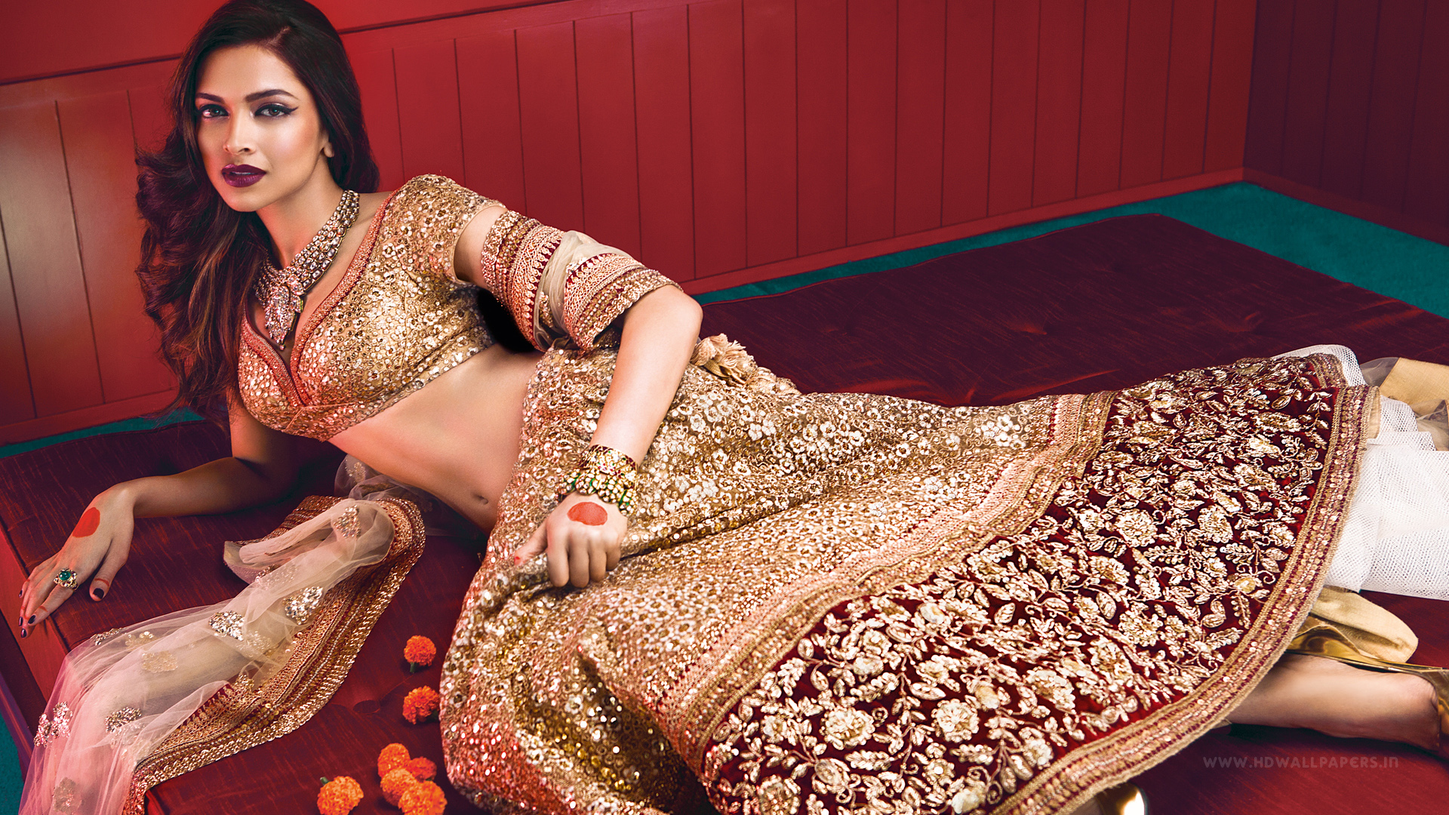
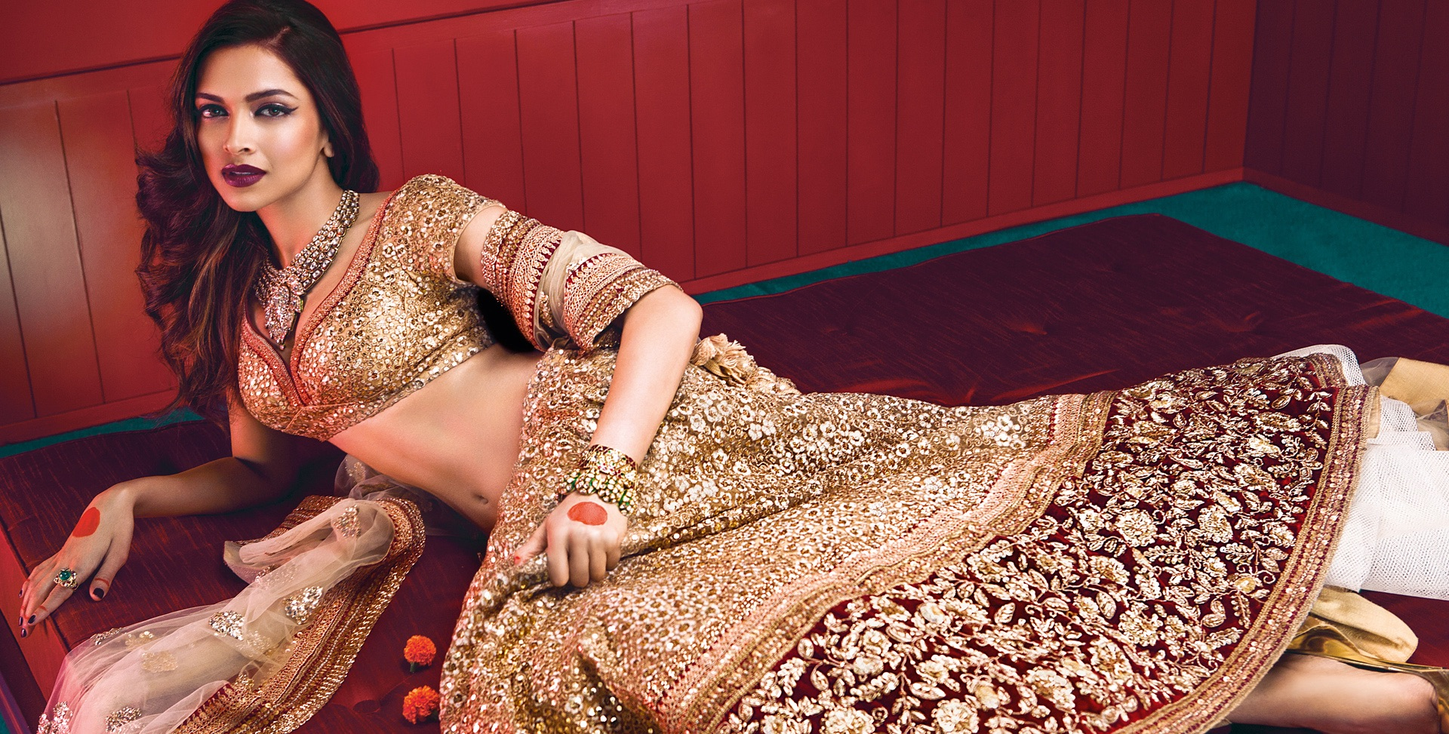
remove lower heading, trim header image

diff --git a/public/css/agency.min.css b/public/css/agency.min.css
@@ -2,4 +2,4 @@
  * Start Bootstrap - Agency v4.0.0-beta (http://startbootstrap.com/template-overviews/agency)
  * Copyright 2013-2017 Start Bootstrap
  * Licensed under MIT (https://github.com/BlackrockDigital/startbootstrap-agency/blob/master/LICENSE)
- */body{overflow-x:hidden;font-family:'Roboto Slab','Helvetica Neue',Helvetica,Arial,sans-serif}p{line-height:1.75}a{color:#fed136}a.active,a:active,a:focus,a:hover{color:#fec503}h1,h2,h3,h4,h5,h6{font-weight:700;font-family:Montserrat,'Helvetica Neue',Helvetica,Arial,sans-serif;text-transform:uppercase}section{padding:100px 0}section h2.section-heading{font-size:40px;margin-top:0;margin-bottom:15px}section h3.section-subheading{font-size:16px;font-weight:400;font-style:italic;margin-bottom:75px;text-transform:none;font-family:'Droid Serif','Helvetica Neue',Helvetica,Arial,sans-serif}@media (min-width:768px){section{padding:150px 0}}::-moz-selection{background:#fed136;text-shadow:none}::selection{background:#fed136;text-shadow:none}img::selection{background:0 0}img::-moz-selection{background:0 0}body{-webkit-tap-highlight-color:#fed136}#mainNav{background-color:#222}#mainNav .navbar-toggler{font-size:12px;right:0;padding:13px;text-transform:uppercase;color:#fff;border:0;background-color:#283351;font-family:Montserrat,'Helvetica Neue',Helvetica,Arial,sans-serif;text-transform:uppercase}#mainNav .navbar-brand{color:#fed136;font-family:'Kaushan Script','Helvetica Neue',Helvetica,Arial,cursive}#mainNav .navbar-brand.active,#mainNav .navbar-brand:active,#mainNav .navbar-brand:focus,#mainNav .navbar-brand:hover{color:#fec503}#mainNav .navbar-nav .nav-item .nav-link{font-size:90%;font-weight:400;padding:.75em 0;letter-spacing:1px;color:#fff;font-family:Montserrat,'Helvetica Neue',Helvetica,Arial,sans-serif;text-transform:uppercase}#mainNav .navbar-nav .nav-item .nav-link.active,#mainNav .navbar-nav .nav-item .nav-link:hover{color:#fed136}@media (min-width:992px){#mainNav{padding-top:25px;padding-bottom:25px;-webkit-transition:padding-top .3s,padding-bottom .3s;-moz-transition:padding-top .3s,padding-bottom .3s;transition:padding-top .3s,padding-bottom .3s;border:none;background-color:transparent}#mainNav .navbar-brand{font-size:1.75em;-webkit-transition:all .3s;-moz-transition:all .3s;transition:all .3s}#mainNav .navbar-nav .nav-item .nav-link{padding:1.1em 1em!important}#mainNav.navbar-shrink{padding-top:0;padding-bottom:0;background-color:#222}#mainNav.navbar-shrink .navbar-brand{font-size:1.25em;padding:12px 0}}header.masthead{text-align:center;color:#fff;background-image:url(../img/header-bg.jpg);background-repeat:no-repeat;background-attachment:scroll;background-position:center center;-webkit-background-size:cover;-moz-background-size:cover;-o-background-size:cover;background-size:cover}header.masthead .intro-text{padding-top:150px;padding-bottom:100px}header.masthead .intro-text .intro-lead-in{font-size:22px;font-style:italic;line-height:22px;margin-bottom:25px;font-family:'Droid Serif','Helvetica Neue',Helvetica,Arial,sans-serif}header.masthead .intro-text .intro-heading{font-size:50px;font-weight:700;line-height:50px;margin-bottom:25px;font-family:Montserrat,'Helvetica Neue',Helvetica,Arial,sans-serif;text-transform:uppercase}@media (min-width:768px){header.masthead .intro-text{padding-top:300px;padding-bottom:200px}header.masthead .intro-text .intro-lead-in{font-size:40px;font-style:italic;line-height:40px;margin-bottom:25px;font-family:'Droid Serif','Helvetica Neue',Helvetica,Arial,sans-serif}header.masthead .intro-text .intro-heading{font-size:75px;font-weight:700;line-height:75px;margin-bottom:50px;font-family:Montserrat,'Helvetica Neue',Helvetica,Arial,sans-serif;text-transform:uppercase;}}.service-heading{margin:15px 0;text-transform:none}#portfolio .portfolio-item{right:0;margin:0 0 15px}#portfolio .portfolio-item .portfolio-link{position:relative;display:block;max-width:400px;margin:0 auto;cursor:pointer}#portfolio .portfolio-item .portfolio-link .portfolio-hover{position:absolute;width:100%;height:100%;-webkit-transition:all ease .5s;-moz-transition:all ease .5s;transition:all ease .5s;opacity:0;background:rgba(254,209,54,.9)}#portfolio .portfolio-item .portfolio-link .portfolio-hover:hover{opacity:1}#portfolio .portfolio-item .portfolio-link .portfolio-hover .portfolio-hover-content{font-size:20px;position:absolute;top:50%;width:100%;height:20px;margin-top:-12px;text-align:center;color:#fff}#portfolio .portfolio-item .portfolio-link .portfolio-hover .portfolio-hover-content i{margin-top:-12px}#portfolio .portfolio-item .portfolio-link .portfolio-hover .portfolio-hover-content h3,#portfolio .portfolio-item .portfolio-link .portfolio-hover .portfolio-hover-content h4{margin:0}#portfolio .portfolio-item .portfolio-caption{max-width:400px;margin:0 auto;padding:25px;text-align:center;background-color:#fff}#portfolio .portfolio-item .portfolio-caption h4{margin:0;text-transform:none}#portfolio .portfolio-item .portfolio-caption p{font-size:16px;font-style:italic;margin:0;font-family:'Droid Serif','Helvetica Neue',Helvetica,Arial,sans-serif}#portfolio *{z-index:2}@media (min-width:767px){#portfolio .portfolio-item{margin:0 0 30px}}.portfolio-modal .modal-dialog{max-width:none;height:100%;margin:0}.portfolio-modal .modal-content{min-height:100%;padding:100px 0;text-align:center;border:none;border-radius:0;background-clip:border-box;-webkit-box-shadow:none;box-shadow:none}.portfolio-modal .modal-content h2{font-size:3em;margin-bottom:15px}.portfolio-modal .modal-content p{margin-bottom:30px}.portfolio-modal .modal-content p.item-intro{font-size:16px;font-style:italic;margin:20px 0 30px;font-family:'Droid Serif','Helvetica Neue',Helvetica,Arial,sans-serif}.portfolio-modal .modal-content ul.list-inline{margin-top:0;margin-bottom:30px}.portfolio-modal .modal-content img{margin-bottom:30px}.portfolio-modal .modal-content button{cursor:pointer}.portfolio-modal .close-modal{position:absolute;top:25px;right:25px;width:75px;height:75px;cursor:pointer;background-color:transparent}.portfolio-modal .close-modal:hover{opacity:.3}.portfolio-modal .close-modal .lr{z-index:1051;width:1px;height:75px;margin-left:35px;-webkit-transform:rotate(45deg);-ms-transform:rotate(45deg);transform:rotate(45deg);background-color:#222}.portfolio-modal .close-modal .lr .rl{z-index:1052;width:1px;height:75px;-webkit-transform:rotate(90deg);-ms-transform:rotate(90deg);transform:rotate(90deg);background-color:#222}.portfolio-modal .modal-backdrop{display:none;opacity:0}.timeline{position:relative;padding:0;list-style:none}.timeline:before{position:absolute;top:0;bottom:0;left:40px;width:2px;margin-left:-1.5px;content:'';background-color:#f1f1f1}.timeline>li{position:relative;min-height:50px;margin-bottom:50px}.timeline>li:after,.timeline>li:before{display:table;content:' '}.timeline>li:after{clear:both}.timeline>li .timeline-panel{position:relative;float:right;width:100%;padding:0 20px 0 100px;text-align:left}.timeline>li .timeline-panel:before{right:auto;left:-15px;border-right-width:15px;border-left-width:0}.timeline>li .timeline-panel:after{right:auto;left:-14px;border-right-width:14px;border-left-width:0}.timeline>li .timeline-image{position:absolute;z-index:100;left:0;width:80px;height:80px;margin-left:0;text-align:center;color:#fff;border:7px solid #f1f1f1;border-radius:100%;background-color:#fed136}.timeline>li .timeline-image h4{font-size:10px;line-height:14px;margin-top:12px}.timeline>li.timeline-inverted>.timeline-panel{float:right;padding:0 20px 0 100px;text-align:left}.timeline>li.timeline-inverted>.timeline-panel:before{right:auto;left:-15px;border-right-width:15px;border-left-width:0}.timeline>li.timeline-inverted>.timeline-panel:after{right:auto;left:-14px;border-right-width:14px;border-left-width:0}.timeline>li:last-child{margin-bottom:0}.timeline .timeline-heading h4{margin-top:0;color:inherit}.timeline .timeline-heading h4.subheading{text-transform:none}.timeline .timeline-body>p,.timeline .timeline-body>ul{margin-bottom:0}@media (min-width:768px){.timeline:before{left:50%}.timeline>li{min-height:100px;margin-bottom:100px}.timeline>li .timeline-panel{float:left;width:41%;padding:0 20px 20px 30px;text-align:right}.timeline>li .timeline-image{left:50%;width:100px;height:100px;margin-left:-50px}.timeline>li .timeline-image h4{font-size:13px;line-height:18px;margin-top:16px}.timeline>li.timeline-inverted>.timeline-panel{float:right;padding:0 30px 20px 20px;text-align:left}}@media (min-width:992px){.timeline>li{min-height:150px}.timeline>li .timeline-panel{padding:0 20px 20px}.timeline>li .timeline-image{width:150px;height:150px;margin-left:-75px}.timeline>li .timeline-image h4{font-size:18px;line-height:26px;margin-top:30px}.timeline>li.timeline-inverted>.timeline-panel{padding:0 20px 20px}}@media (min-width:1200px){.timeline>li{min-height:170px}.timeline>li .timeline-panel{padding:0 20px 20px 100px}.timeline>li .timeline-image{width:170px;height:170px;margin-left:-85px}.timeline>li .timeline-image h4{margin-top:40px}.timeline>li.timeline-inverted>.timeline-panel{padding:0 100px 20px 20px}}.team-member{margin-bottom:50px;text-align:center}.team-member img{width:225px;height:225px;border:7px solid #fff}.team-member h4{margin-top:25px;margin-bottom:0;text-transform:none}.team-member p{margin-top:0}section#contact{background-color:#222;background-image:url(../img/map-image.png);background-repeat:no-repeat;background-position:center}section#contact .section-heading{color:#fff}section#contact .form-group{margin-bottom:25px}section#contact .form-group input,section#contact .form-group textarea{padding:20px}section#contact .form-group input.form-control{height:auto}section#contact .form-group textarea.form-control{height:236px}section#contact .form-control:focus{border-color:#fed136;box-shadow:none}section#contact ::-webkit-input-placeholder{font-weight:700;color:#eee;font-family:Montserrat,'Helvetica Neue',Helvetica,Arial,sans-serif;text-transform:uppercase}section#contact :-moz-placeholder{font-weight:700;color:#eee;font-family:Montserrat,'Helvetica Neue',Helvetica,Arial,sans-serif;text-transform:uppercase}section#contact ::-moz-placeholder{font-weight:700;color:#eee;font-family:Montserrat,'Helvetica Neue',Helvetica,Arial,sans-serif;text-transform:uppercase}section#contact :-ms-input-placeholder{font-weight:700;color:#eee;font-family:Montserrat,'Helvetica Neue',Helvetica,Arial,sans-serif;text-transform:uppercase}section#contact .text-danger{color:#e74c3c}footer{padding:25px 0;text-align:center}footer span.copyright{font-size:90%;line-height:40px;text-transform:none;font-family:Montserrat,'Helvetica Neue',Helvetica,Arial,sans-serif;text-transform:uppercase}footer ul.quicklinks{font-size:90%;line-height:40px;margin-bottom:0;text-transform:none;font-family:Montserrat,'Helvetica Neue',Helvetica,Arial,sans-serif;text-transform:uppercase}ul.social-buttons{margin-bottom:0}ul.social-buttons li a{font-size:20px;line-height:40px;display:block;width:40px;height:40px;-webkit-transition:all .3s;-moz-transition:all .3s;transition:all .3s;color:#fff;border-radius:100%;outline:0;background-color:#222}ul.social-buttons li a:active,ul.social-buttons li a:focus,ul.social-buttons li a:hover{background-color:#fed136}.text-primary{color:#fed136!important}.btn-primary{font-weight:700;color:#fff;border-color:#fed136;background-color:#fed136;font-family:Montserrat,'Helvetica Neue',Helvetica,Arial,sans-serif;text-transform:uppercase}.btn-primary.focus,.btn-primary:focus{color:#fff;border-color:#b48b01;background-color:#fec503}.btn-primary:hover{color:#fff;border-color:#f6bf01;background-color:#fec503}.btn-primary.active,.btn-primary:active,.open>.btn-primary.dropdown-toggle{color:#fff;border-color:#f6bf01;background-color:#fec503}.btn-primary.active.focus,.btn-primary.active:focus,.btn-primary.active:hover,.btn-primary:active.focus,.btn-primary:active:focus,.btn-primary:active:hover,.open>.btn-primary.dropdown-toggle.focus,.open>.btn-primary.dropdown-toggle:focus,.open>.btn-primary.dropdown-toggle:hover{color:#fff;border-color:#b48b01;background-color:#dcab01}.btn-primary.active,.btn-primary:active,.open>.btn-primary.dropdown-toggle{background-image:none}.btn-primary.disabled.focus,.btn-primary.disabled:focus,.btn-primary.disabled:hover,.btn-primary[disabled].focus,.btn-primary[disabled]:focus,.btn-primary[disabled]:hover,fieldset[disabled] .btn-primary.focus,fieldset[disabled] .btn-primary:focus,fieldset[disabled] .btn-primary:hover{border-color:#fed136;background-color:#fed136}.btn-primary .badge{color:#fed136;background-color:#fff}.btn-xl{font-size:18px;font-weight:700;padding:20px 40px;border-radius:3px;color:white;border-color:#141F35;background-color:#141F35;font-family:Montserrat,'Helvetica Neue',Helvetica,Arial,sans-serif;text-transform:uppercase}.btn-xl.focus,.btn-xl:focus{color:#fff;border-color:#b48b01;background-color:#fec503}.btn-xl:hover{color:#fff;border-color:#283351;background-color:#283351}.btn-xl.active,.btn-xl:active,.open>.btn-xl.dropdown-toggle{color:#fff;border-color:#f6bf01;background-color:#fec503}.btn-xl.active.focus,.btn-xl.active:focus,.btn-xl.active:hover,.btn-xl:active.focus,.btn-xl:active:focus,.btn-xl:active:hover,.open>.btn-xl.dropdown-toggle.focus,.open>.btn-xl.dropdown-toggle:focus,.open>.btn-xl.dropdown-toggle:hover{color:#fff;border-color:#b48b01;background-color:#dcab01}.btn-xl.active,.btn-xl:active,.open>.btn-xl.dropdown-toggle{background-image:none}.btn-xl.disabled.focus,.btn-xl.disabled:focus,.btn-xl.disabled:hover,.btn-xl[disabled].focus,.btn-xl[disabled]:focus,.btn-xl[disabled]:hover,fieldset[disabled] .btn-xl.focus,fieldset[disabled] .btn-xl:focus,fieldset[disabled] .btn-xl:hover{border-color:#fed136;background-color:#fed136}.btn-xl .badge{color:#fed136;background-color:#fff}
+ */body{overflow-x:hidden;font-family:'Roboto Slab','Helvetica Neue',Helvetica,Arial,sans-serif}p{line-height:1.75}a{color:#fed136}a.active,a:active,a:focus,a:hover{color:#fec503}h1,h2,h3,h4,h5,h6{font-weight:700;font-family:Montserrat,'Helvetica Neue',Helvetica,Arial,sans-serif;text-transform:uppercase}section{padding:100px 0}section h2.section-heading{font-size:40px;margin-top:0;margin-bottom:15px}section h3.section-subheading{font-size:16px;font-weight:400;font-style:italic;margin-bottom:75px;text-transform:none;font-family:'Droid Serif','Helvetica Neue',Helvetica,Arial,sans-serif}@media (min-width:768px){section{padding:150px 0}}::-moz-selection{background:#fed136;text-shadow:none}::selection{background:#fed136;text-shadow:none}img::selection{background:0 0}img::-moz-selection{background:0 0}body{-webkit-tap-highlight-color:#fed136}#mainNav{background-color:#222}#mainNav .navbar-toggler{font-size:12px;right:0;padding:13px;text-transform:uppercase;color:#fff;border:0;background-color:#283351;font-family:Montserrat,'Helvetica Neue',Helvetica,Arial,sans-serif;text-transform:uppercase}#mainNav .navbar-brand{color:#fed136;font-family:'Kaushan Script','Helvetica Neue',Helvetica,Arial,cursive}#mainNav .navbar-brand.active,#mainNav .navbar-brand:active,#mainNav .navbar-brand:focus,#mainNav .navbar-brand:hover{color:#fec503}#mainNav .navbar-nav .nav-item .nav-link{font-size:90%;font-weight:400;padding:.75em 0;letter-spacing:1px;color:#fff;font-family:Montserrat,'Helvetica Neue',Helvetica,Arial,sans-serif;text-transform:uppercase}#mainNav .navbar-nav .nav-item .nav-link.active,#mainNav .navbar-nav .nav-item .nav-link:hover{color:#fed136}@media (min-width:992px){#mainNav{padding-top:25px;padding-bottom:25px;-webkit-transition:padding-top .3s,padding-bottom .3s;-moz-transition:padding-top .3s,padding-bottom .3s;transition:padding-top .3s,padding-bottom .3s;border:none;background-color:transparent}#mainNav .navbar-brand{font-size:1.75em;-webkit-transition:all .3s;-moz-transition:all .3s;transition:all .3s}#mainNav .navbar-nav .nav-item .nav-link{padding:1.1em 1em!important}#mainNav.navbar-shrink{padding-top:0;padding-bottom:0;background-color:#222}#mainNav.navbar-shrink .navbar-brand{font-size:1.25em;padding:12px 0}}header.masthead{text-align:center;color:#fff;background-image:url(../img/header-bg.jpg);background-repeat:no-repeat;background-attachment:scroll;background-position:center center;-webkit-background-size:cover;-moz-background-size:cover;-o-background-size:cover;background-size:cover}header.masthead .intro-text{padding-top:150px;padding-bottom:100px}header.masthead .intro-text .intro-lead-in{font-size:22px;font-style:italic;line-height:22px;margin-bottom:25px;font-family:'Droid Serif','Helvetica Neue',Helvetica,Arial,sans-serif}header.masthead .intro-text .intro-heading{font-size:50px;font-weight:700;line-height:50px;margin-bottom:25px;font-family:Montserrat,'Helvetica Neue',Helvetica,Arial,sans-serif;text-transform:uppercase}@media (min-width:768px){header.masthead .intro-text{padding-top:300px;padding-bottom:200px}header.masthead .intro-text .intro-lead-in{font-size:40px;font-style:italic;line-height:40px;margin-bottom:25px;font-family:'Droid Serif','Helvetica Neue',Helvetica,Arial,sans-serif}header.masthead .intro-text .intro-heading{font-size:75px;font-weight:700;line-height:75px;margin-bottom:50px;font-family:Montserrat,'Helvetica Neue',Helvetica,Arial,sans-serif;text-transform:uppercase}}.intro-heading{background-color: #E3A909; color: white;}.service-heading{margin:15px 0;text-transform:none}#portfolio .portfolio-item{right:0;margin:0 0 15px}#portfolio .portfolio-item .portfolio-link{position:relative;display:block;max-width:400px;margin:0 auto;cursor:pointer}#portfolio .portfolio-item .portfolio-link .portfolio-hover{position:absolute;width:100%;height:100%;-webkit-transition:all ease .5s;-moz-transition:all ease .5s;transition:all ease .5s;opacity:0;background:rgba(254,209,54,.9)}#portfolio .portfolio-item .portfolio-link .portfolio-hover:hover{opacity:1}#portfolio .portfolio-item .portfolio-link .portfolio-hover .portfolio-hover-content{font-size:20px;position:absolute;top:50%;width:100%;height:20px;margin-top:-12px;text-align:center;color:#fff}#portfolio .portfolio-item .portfolio-link .portfolio-hover .portfolio-hover-content i{margin-top:-12px}#portfolio .portfolio-item .portfolio-link .portfolio-hover .portfolio-hover-content h3,#portfolio .portfolio-item .portfolio-link .portfolio-hover .portfolio-hover-content h4{margin:0}#portfolio .portfolio-item .portfolio-caption{max-width:400px;margin:0 auto;padding:25px;text-align:center;background-color:#fff}#portfolio .portfolio-item .portfolio-caption h4{margin:0;text-transform:none}#portfolio .portfolio-item .portfolio-caption p{font-size:16px;font-style:italic;margin:0;font-family:'Droid Serif','Helvetica Neue',Helvetica,Arial,sans-serif}#portfolio *{z-index:2}@media (min-width:767px){#portfolio .portfolio-item{margin:0 0 30px}}.portfolio-modal .modal-dialog{max-width:none;height:100%;margin:0}.portfolio-modal .modal-content{min-height:100%;padding:100px 0;text-align:center;border:none;border-radius:0;background-clip:border-box;-webkit-box-shadow:none;box-shadow:none}.portfolio-modal .modal-content h2{font-size:3em;margin-bottom:15px}.portfolio-modal .modal-content p{margin-bottom:30px}.portfolio-modal .modal-content p.item-intro{font-size:16px;font-style:italic;margin:20px 0 30px;font-family:'Droid Serif','Helvetica Neue',Helvetica,Arial,sans-serif}.portfolio-modal .modal-content ul.list-inline{margin-top:0;margin-bottom:30px}.portfolio-modal .modal-content img{margin-bottom:30px}.portfolio-modal .modal-content button{cursor:pointer}.portfolio-modal .close-modal{position:absolute;top:25px;right:25px;width:75px;height:75px;cursor:pointer;background-color:transparent}.portfolio-modal .close-modal:hover{opacity:.3}.portfolio-modal .close-modal .lr{z-index:1051;width:1px;height:75px;margin-left:35px;-webkit-transform:rotate(45deg);-ms-transform:rotate(45deg);transform:rotate(45deg);background-color:#222}.portfolio-modal .close-modal .lr .rl{z-index:1052;width:1px;height:75px;-webkit-transform:rotate(90deg);-ms-transform:rotate(90deg);transform:rotate(90deg);background-color:#222}.portfolio-modal .modal-backdrop{display:none;opacity:0}.timeline{position:relative;padding:0;list-style:none}.timeline:before{position:absolute;top:0;bottom:0;left:40px;width:2px;margin-left:-1.5px;content:'';background-color:#f1f1f1}.timeline>li{position:relative;min-height:50px;margin-bottom:50px}.timeline>li:after,.timeline>li:before{display:table;content:' '}.timeline>li:after{clear:both}.timeline>li .timeline-panel{position:relative;float:right;width:100%;padding:0 20px 0 100px;text-align:left}.timeline>li .timeline-panel:before{right:auto;left:-15px;border-right-width:15px;border-left-width:0}.timeline>li .timeline-panel:after{right:auto;left:-14px;border-right-width:14px;border-left-width:0}.timeline>li .timeline-image{position:absolute;z-index:100;left:0;width:80px;height:80px;margin-left:0;text-align:center;color:#fff;border:7px solid #f1f1f1;border-radius:100%;background-color:#fed136}.timeline>li .timeline-image h4{font-size:10px;line-height:14px;margin-top:12px}.timeline>li.timeline-inverted>.timeline-panel{float:right;padding:0 20px 0 100px;text-align:left}.timeline>li.timeline-inverted>.timeline-panel:before{right:auto;left:-15px;border-right-width:15px;border-left-width:0}.timeline>li.timeline-inverted>.timeline-panel:after{right:auto;left:-14px;border-right-width:14px;border-left-width:0}.timeline>li:last-child{margin-bottom:0}.timeline .timeline-heading h4{margin-top:0;color:inherit}.timeline .timeline-heading h4.subheading{text-transform:none}.timeline .timeline-body>p,.timeline .timeline-body>ul{margin-bottom:0}@media (min-width:768px){.timeline:before{left:50%}.timeline>li{min-height:100px;margin-bottom:100px}.timeline>li .timeline-panel{float:left;width:41%;padding:0 20px 20px 30px;text-align:right}.timeline>li .timeline-image{left:50%;width:100px;height:100px;margin-left:-50px}.timeline>li .timeline-image h4{font-size:13px;line-height:18px;margin-top:16px}.timeline>li.timeline-inverted>.timeline-panel{float:right;padding:0 30px 20px 20px;text-align:left}}@media (min-width:992px){.timeline>li{min-height:150px}.timeline>li .timeline-panel{padding:0 20px 20px}.timeline>li .timeline-image{width:150px;height:150px;margin-left:-75px}.timeline>li .timeline-image h4{font-size:18px;line-height:26px;margin-top:30px}.timeline>li.timeline-inverted>.timeline-panel{padding:0 20px 20px}}@media (min-width:1200px){.timeline>li{min-height:170px}.timeline>li .timeline-panel{padding:0 20px 20px 100px}.timeline>li .timeline-image{width:170px;height:170px;margin-left:-85px}.timeline>li .timeline-image h4{margin-top:40px}.timeline>li.timeline-inverted>.timeline-panel{padding:0 100px 20px 20px}}.team-member{margin-bottom:50px;text-align:center}.team-member img{width:225px;height:225px;border:7px solid #fff}.team-member h4{margin-top:25px;margin-bottom:0;text-transform:none}.team-member p{margin-top:0}section#contact{background-color:#222;background-image:url(../img/map-image.png);background-repeat:no-repeat;background-position:center}section#contact .section-heading{color:#fff}section#contact .form-group{margin-bottom:25px}section#contact .form-group input,section#contact .form-group textarea{padding:20px}section#contact .form-group input.form-control{height:auto}section#contact .form-group textarea.form-control{height:236px}section#contact .form-control:focus{border-color:#fed136;box-shadow:none}section#contact ::-webkit-input-placeholder{font-weight:700;color:#eee;font-family:Montserrat,'Helvetica Neue',Helvetica,Arial,sans-serif;text-transform:uppercase}section#contact :-moz-placeholder{font-weight:700;color:#eee;font-family:Montserrat,'Helvetica Neue',Helvetica,Arial,sans-serif;text-transform:uppercase}section#contact ::-moz-placeholder{font-weight:700;color:#eee;font-family:Montserrat,'Helvetica Neue',Helvetica,Arial,sans-serif;text-transform:uppercase}section#contact :-ms-input-placeholder{font-weight:700;color:#eee;font-family:Montserrat,'Helvetica Neue',Helvetica,Arial,sans-serif;text-transform:uppercase}section#contact .text-danger{color:#e74c3c}footer{padding:25px 0;text-align:center}footer span.copyright{font-size:90%;line-height:40px;text-transform:none;font-family:Montserrat,'Helvetica Neue',Helvetica,Arial,sans-serif;text-transform:uppercase}footer ul.quicklinks{font-size:90%;line-height:40px;margin-bottom:0;text-transform:none;font-family:Montserrat,'Helvetica Neue',Helvetica,Arial,sans-serif;text-transform:uppercase}ul.social-buttons{margin-bottom:0}ul.social-buttons li a{font-size:20px;line-height:40px;display:block;width:40px;height:40px;-webkit-transition:all .3s;-moz-transition:all .3s;transition:all .3s;color:#fff;border-radius:100%;outline:0;background-color:#222}ul.social-buttons li a:active,ul.social-buttons li a:focus,ul.social-buttons li a:hover{background-color:#fed136}.text-primary{color:#fed136!important}.btn-primary{font-weight:700;color:#fff;border-color:#fed136;background-color:#fed136;font-family:Montserrat,'Helvetica Neue',Helvetica,Arial,sans-serif;text-transform:uppercase}.btn-primary.focus,.btn-primary:focus{color:#fff;border-color:#b48b01;background-color:#fec503}.btn-primary:hover{color:#fff;border-color:#f6bf01;background-color:#fec503}.btn-primary.active,.btn-primary:active,.open>.btn-primary.dropdown-toggle{color:#fff;border-color:#f6bf01;background-color:#fec503}.btn-primary.active.focus,.btn-primary.active:focus,.btn-primary.active:hover,.btn-primary:active.focus,.btn-primary:active:focus,.btn-primary:active:hover,.open>.btn-primary.dropdown-toggle.focus,.open>.btn-primary.dropdown-toggle:focus,.open>.btn-primary.dropdown-toggle:hover{color:#fff;border-color:#b48b01;background-color:#dcab01}.btn-primary.active,.btn-primary:active,.open>.btn-primary.dropdown-toggle{background-image:none}.btn-primary.disabled.focus,.btn-primary.disabled:focus,.btn-primary.disabled:hover,.btn-primary[disabled].focus,.btn-primary[disabled]:focus,.btn-primary[disabled]:hover,fieldset[disabled] .btn-primary.focus,fieldset[disabled] .btn-primary:focus,fieldset[disabled] .btn-primary:hover{border-color:#fed136;background-color:#fed136}.btn-primary .badge{color:#fed136;background-color:#fff}.btn-xl{font-size:18px;font-weight:700;padding:20px 40px;border-radius:3px;color:white;border-color:#141F35;background-color:#141F35;font-family:Montserrat,'Helvetica Neue',Helvetica,Arial,sans-serif;text-transform:uppercase}.btn-xl.focus,.btn-xl:focus{color:#fff;border-color:#b48b01;background-color:#fec503}.btn-xl:hover{color:#fff;border-color:#283351;background-color:#283351}.btn-xl.active,.btn-xl:active,.open>.btn-xl.dropdown-toggle{color:#fff;border-color:#f6bf01;background-color:#fec503}.btn-xl.active.focus,.btn-xl.active:focus,.btn-xl.active:hover,.btn-xl:active.focus,.btn-xl:active:focus,.btn-xl:active:hover,.open>.btn-xl.dropdown-toggle.focus,.open>.btn-xl.dropdown-toggle:focus,.open>.btn-xl.dropdown-toggle:hover{color:#fff;border-color:#b48b01;background-color:#dcab01}.btn-xl.active,.btn-xl:active,.open>.btn-xl.dropdown-toggle{background-image:none}.btn-xl.disabled.focus,.btn-xl.disabled:focus,.btn-xl.disabled:hover,.btn-xl[disabled].focus,.btn-xl[disabled]:focus,.btn-xl[disabled]:hover,fieldset[disabled] .btn-xl.focus,fieldset[disabled] .btn-xl:focus,fieldset[disabled] .btn-xl:hover{border-color:#fed136;background-color:#fed136}.btn-xl .badge{color:#fed136;background-color:#fff}
